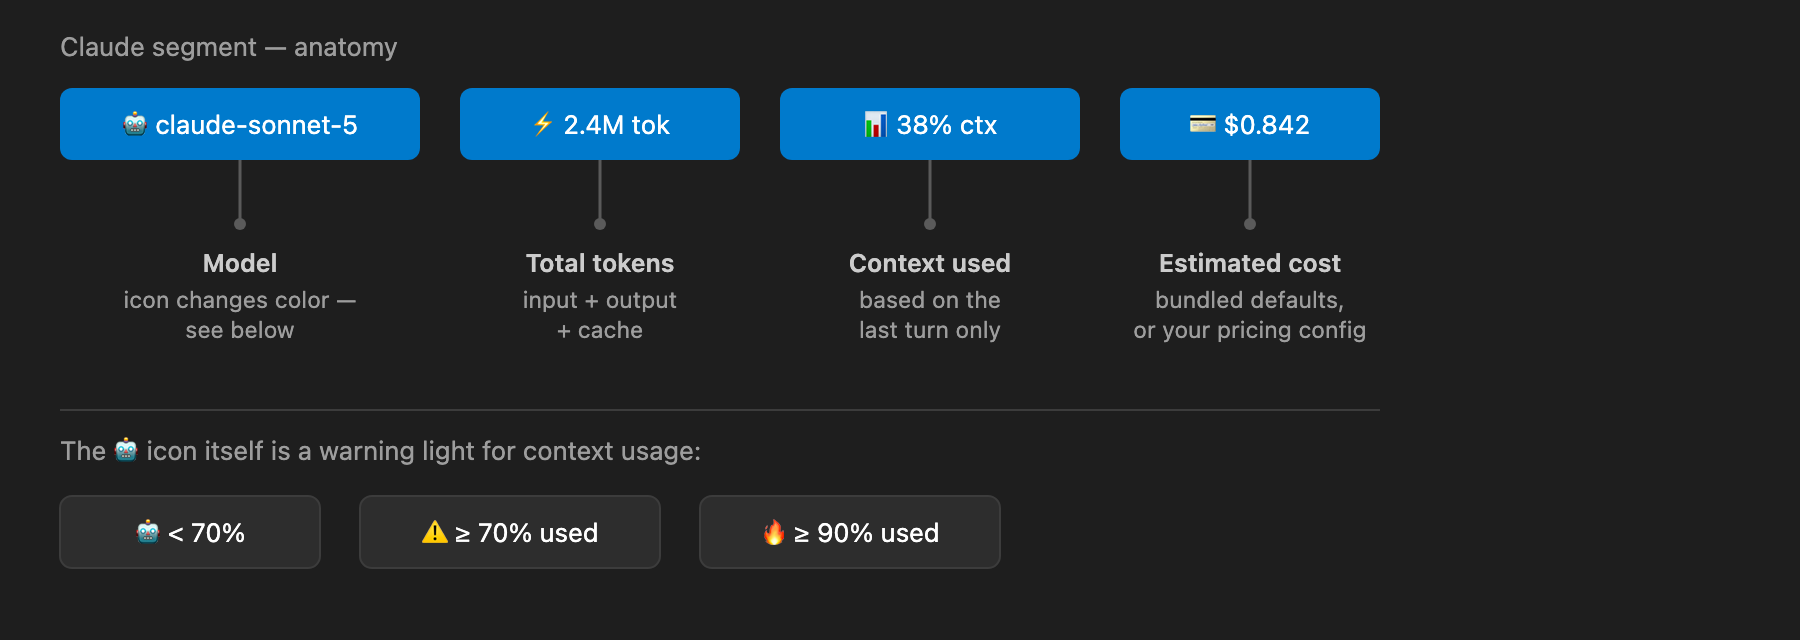
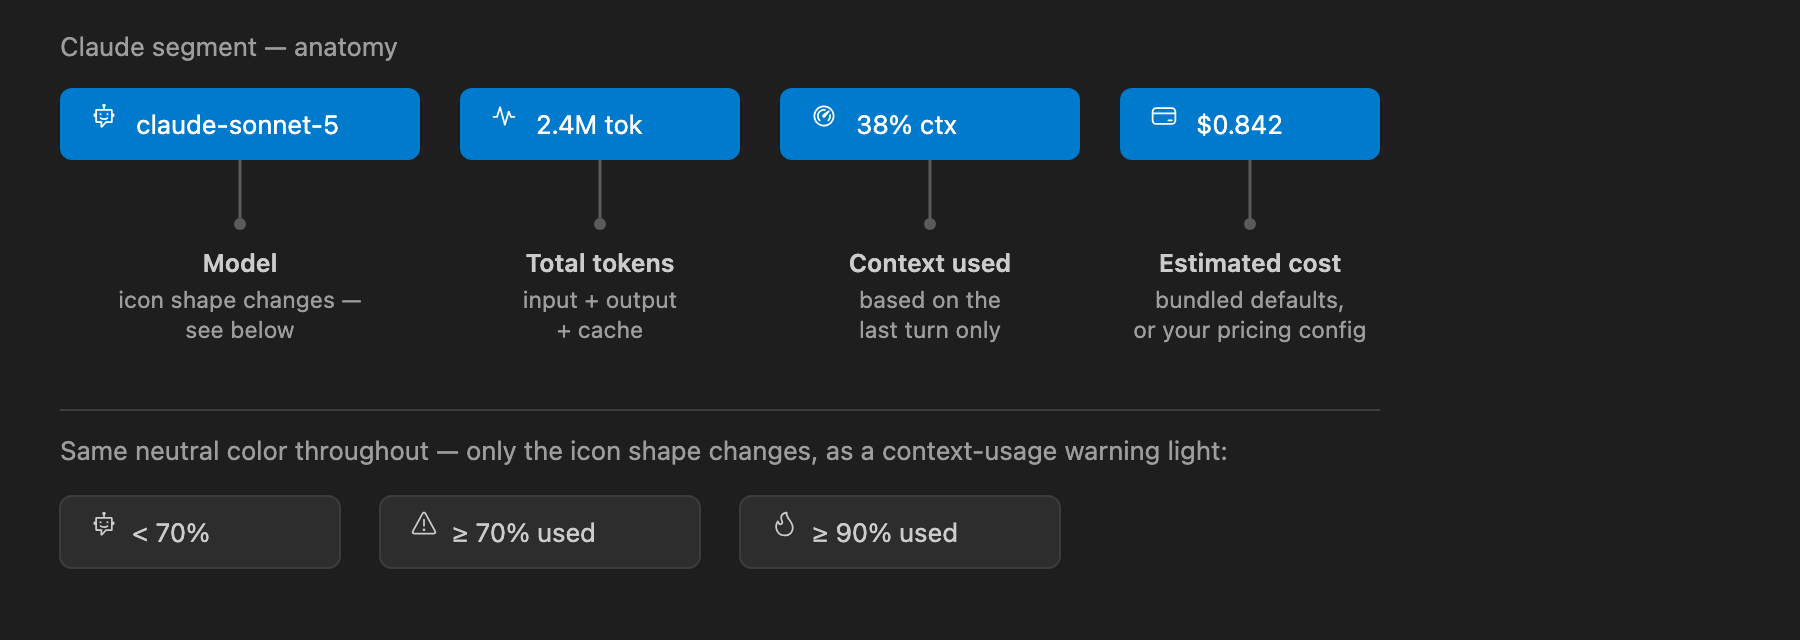
Update README install instructions and refresh status bar diagrams
Add repository field to package.json, drop --allow-missing-repository
from the vsce package command now that it's set, and regenerate the
status bar hero/anatomy diagrams.

diff --git a/README.md b/README.md
@@ -1,94 +1,94 @@
 # Claude Statusline (VS Code)
 
-See what you're editing and what your Claude Code session is costing you — both live, both anchored at the edge of the window.
+See what edit, see what Claude Code session cost. Both live, both status bar edge.
 
-![Status bar showing the editor segment and the Claude segment](docs/images/statusbar-hero.png)
-
-> The images in this README are hand-built diagrams that match the extension's real colors, layout, and text (not literal screen captures) — a couple of details may look slightly different on your machine, but the shapes and labels are accurate.
+![Status bar showing editor segment and Claude segment](docs/images/statusbar-hero.png)
 
 ## What it does
 
-Two things live at the far right of your status bar:
+Two thing live status bar far right:
 
-- **Editor segment** — the file you're in, your cursor position, and the line count. Updates as you type or move around.
-- **Claude segment** — your current Claude Code session's model, token usage, context %, and estimated cost. Updates live as the transcript grows. **Click it** to open the full session panel.
+- **Editor segment** — file path (relative to workspace) + line count, one spot near Claude segment. Cursor position show too, but just mirror VS Code's own built-in Ln/Col indicator — not unique to this extension.
+- **Claude segment** — model, token usage, context %, cost estimate for current session. Update live as transcript grow. Click open full session panel. *This part not already in VS Code.*
 
-## The Claude segment, explained
+## Claude segment, explained
 
-![Anatomy of the Claude segment: model, total tokens, context used, estimated cost, and the three warning-icon states](docs/images/statusbar-anatomy.png)
+![Anatomy of Claude segment: model, total tokens, context used, estimated cost, three warning-icon states](docs/images/statusbar-anatomy.png)
 
-- **Model** — the 🤖 icon doubles as a context-usage warning light: it turns ⚠ at ≥70% and 🔥 at ≥90%.
-- **Total tokens** — input + output + cache for the whole session.
-- **Context used** — based on the *last turn only*, not a running total — it answers "will my next message fit," not "how much have I used overall."
-- **Estimated cost** — built-in pricing covers the current Sonnet/Opus/Haiku/Fable models out of the box; see [Cost estimates](#cost-estimates) to override it.
+- **Model** — 🤖 icon double as context-usage warning light: swap ⚠ at ≥70%, 🔥 at ≥90%.
+- **Total tokens** — input + output + cache, whole session.
+- **Context used** — last turn only, not running total. Answer "next message fit?", not "total used?"
+- **Estimated cost** — built-in pricing cover current Sonnet/Opus/Haiku/Fable models, no setup need. Override: see [Cost estimates](#cost-estimates).
 
 ## Session panel
 
-Click the Claude segment (or run **Claude Statusline: Open Session Panel**) to open a panel beside your editor:
+Click Claude segment (or run **Claude Statusline: Open Session Panel**) — panel open beside editor:
 
-![The session panel: sessions in this workspace, a make-primary button, a compaction note, a 7-day spend chart, and spend by model](docs/images/panel-anatomy.png)
+![Session panel: sessions in workspace, make-primary button, compaction note, 7-day spend chart, spend by model](docs/images/panel-anatomy.png)
 
-- **Sessions in this workspace** — every Claude Code transcript found here, with the "primary" one (the one the status bar tracks) marked. Running more than one session at once? Use **Make primary** or the **Claude Statusline: Switch Primary Session** command to pick a different one.
-- **Last 7 days** — a spend chart and per-model breakdown for this workspace, stored locally and auto-pruned past 7 days.
-- **Compaction** — a heuristic count of likely compaction events for the primary session, since context % only reflects the last turn. Best-effort, not exact (see [details](#how-compaction-detection-works)).
+- **Sessions this workspace** — every transcript found, "primary" one (status bar tracks) marked. Multi session running? Use **Make primary** button or **Claude Statusline: Switch Primary Session** command, pick different one.
+- **Last 7 days** — spend chart + per-model breakdown, this workspace. Store local, auto-prune past 7 days.
+- **Compaction** — heuristic count, likely compaction events for primary session (context % only show last turn). Best-effort, not exact (see [details](#how-compaction-detection-works)).
 
 ## Install
 
-**Try it without installing anything:**
+**Try without install:**
 
-1. Open this folder in VS Code.
-2. Press `F5` (Run → Start Debugging) — this compiles the extension and opens an Extension Development Host window with it loaded.
-3. Open any folder in that new window; the segments appear bottom-right.
+1. Clone repo, open folder VS Code: `git clone https://github.com/rcanpahali/vscode-claude-statusline.git`
+2. Press `F5` — compile extension, open Extension Development Host window with it loaded.
+3. Open any folder new window; segments appear bottom-right.
 
-**Install it into your real VS Code:**
+**Install real VS Code:**
 
 ```bash
+git clone https://github.com/rcanpahali/vscode-claude-statusline.git
+cd vscode-claude-statusline
 npm install
 npm run compile
-npx @vscode/vsce package --allow-missing-repository
+npx @vscode/vsce package
 code --install-extension vscode-claude-statusline-0.3.0.vsix
 ```
 
-Then reload the window (`Cmd+Shift+P` → "Developer: Reload Window"). After code changes, repeat the last two commands to update it.
+Then reload window (`Cmd+Shift+P` → "Developer: Reload Window"). Code change? Repeat last two commands, update.
 
 ## Settings
 
 | Setting | Default | What it does |
 |---|---|---|
-| `claudeStatusline.enabled` | `true` | Show or hide the Claude segment. |
-| `claudeStatusline.pollIntervalMs` | `2000` | Fallback poll interval, alongside the file watcher. |
-| `claudeStatusline.contextWindowTokens` | `1000000` | Context window size, used for context % and compaction detection. Lower this for a 200K-window model like Haiku 4.5. |
-| `claudeStatusline.sessionFile` | `""` | Pin one exact transcript path — overrides auto-detection and the panel's primary-session picker. Leave empty to auto-detect. |
-| `claudeStatusline.pricing` | `{}` | Per-model USD rates per 1M tokens; overrides or extends the built-in defaults (see [Cost estimates](#cost-estimates)). |
+| `claudeStatusline.enabled` | `true` | Show/hide Claude segment. |
+| `claudeStatusline.pollIntervalMs` | `2000` | Fallback poll interval, alongside file watcher. |
+| `claudeStatusline.contextWindowTokens` | `1000000` | Context window size — used for context % + compaction detect. Lower for 200K-window model like Haiku 4.5. |
+| `claudeStatusline.sessionFile` | `""` | Pin exact transcript path — overrides auto-detect + panel picker. Empty = auto-detect. |
+| `claudeStatusline.pricing` | `{}` | Per-model USD rate per 1M tokens; overrides/extends built-in defaults (see [Cost estimates](#cost-estimates)). |
 
 ## Commands
 
 | Command | What it does |
 |---|---|
-| `Claude Statusline: Refresh` | Force a re-read of the current transcript. |
-| `Claude Statusline: Open Session Panel` | Open the webview panel (also bound to clicking the Claude segment). |
-| `Claude Statusline: Switch Primary Session` | Pick which concurrent session in this workspace is tracked as primary. |
+| `Claude Statusline: Refresh` | Force re-read of current transcript. |
+| `Claude Statusline: Open Session Panel` | Open webview panel (also bound to clicking Claude segment). |
+| `Claude Statusline: Switch Primary Session` | Pick which concurrent session this workspace tracks as primary. |
 
 ## Details
 
 <details>
-<summary><strong>Where the session data comes from</strong></summary>
+<summary><strong>Where session data comes from</strong></summary>
 
-There is no public API for Claude Code session telemetry. This extension reads the same local transcript files Claude Code already writes to disk:
+No public API for Claude Code session telemetry. Extension reads same local transcript files Claude Code already writes to disk:
 
 ```
 ~/.claude/projects/<workspace-path-with-slashes-replaced-by-dashes>/<session-id>.jsonl
 ```
 
-It scans every folder in your (possibly multi-root) workspace for a matching transcript directory, then auto-picks the most recently modified `.jsonl` file across all of them as the "primary" session, re-parsing it on file changes plus a periodic poll as a fallback. This is reverse-engineered from observed behavior, not a documented contract — if Claude Code changes its storage format, update `src/claudeSession/transcriptLocator.ts` and `src/claudeSession/transcriptParser.ts` to match.
+Scans every folder in your (possibly multi-root) workspace for matching transcript directory, auto-picks most recently modified `.jsonl` across all of them as "primary" session, re-parses on file changes plus periodic poll as fallback. Reverse-engineered from observed behavior, not documented contract — if Claude Code changes storage format, update `src/claudeSession/transcriptLocator.ts` and `src/claudeSession/transcriptParser.ts` to match.
 
-If multiple sessions are running concurrently in the workspace, auto-pick can grab the wrong one — use the session panel's "Make primary" button, the **Claude Statusline: Switch Primary Session** command, or pin an exact file with `claudeStatusline.sessionFile` (which always wins over both).
+Multiple sessions running concurrently in workspace? Auto-pick can grab wrong one — use session panel's "Make primary" button, **Claude Statusline: Switch Primary Session** command, or pin exact file with `claudeStatusline.sessionFile` (always wins over both).
 </details>
 
 <details>
 <summary><strong id="cost-estimates">Cost estimates</strong></summary>
 
-Built-in default USD rates ship for the current model lineup (Sonnet, Opus, Haiku, Fable) as of 2026-08, so cost shows without any setup. Anthropic's rates change over time, so verify current pricing before relying on it for anything beyond a rough estimate. Override a model's rate, or add one for a model not in the defaults, via `claudeStatusline.pricing`:
+Built-in default USD rates ship for current model lineup (Sonnet, Opus, Haiku, Fable) as of 2026-08, so cost shows without setup. Anthropic's rates change over time — verify current pricing before relying on it beyond rough estimate. Override a model's rate, or add one not in defaults, via `claudeStatusline.pricing`:
 
 ```json
 {
@@ -103,19 +103,19 @@ Built-in default USD rates ship for the current model lineup (Sonnet, Opus, Haik
 }
 ```
 
-Entries here override the shipped default for that model id; models with neither a default nor a configured entry show cost as `n/a`.
+Entries here override shipped default for that model id; models with neither default nor configured entry show cost as `n/a`.
 </details>
 
 <details>
 <summary><strong id="how-compaction-detection-works">How compaction detection works</strong></summary>
 
-Claude Code transcripts carry no explicit compaction marker (verified against real on-disk transcripts, including multi-thousand-line sessions). This heuristically infers a compaction from a sharp drop in per-turn context tokens: a turn using at least 10% of the context window followed by a turn using less than 40% of that. False negatives and positives are both possible — treat the count as a rough signal, not a log.
+Claude Code transcripts carry no explicit compaction marker (verified against real on-disk transcripts, including multi-thousand-line sessions). Heuristically infers compaction from sharp drop in per-turn context tokens: turn using at least 10% of context window, followed by turn using less than 40% of that. False negatives and positives both possible — treat count as rough signal, not log.
 </details>
 
 <details>
 <summary><strong>Status bar position</strong></summary>
 
-Both segments live on the **right** side of the status bar, past everything else VS Code or other extensions add — editor stats first, the Claude session badge at the very outer edge. That's deliberate: `createStatusBarItem` priority controls left/right ordering, so both use very low (negative) priorities to guarantee they land past the built-in line/column, encoding, and language-mode indicators rather than competing with them for space.
+Both segments live **right** side of status bar, past everything else VS Code or other extensions add — editor stats first, Claude session badge at very outer edge. Deliberate: `createStatusBarItem` priority controls left/right ordering, so both use very low (negative) priorities to guarantee they land past built-in line/column, encoding, and language-mode indicators rather than competing with them for space.
 </details>
 
 ## Development
